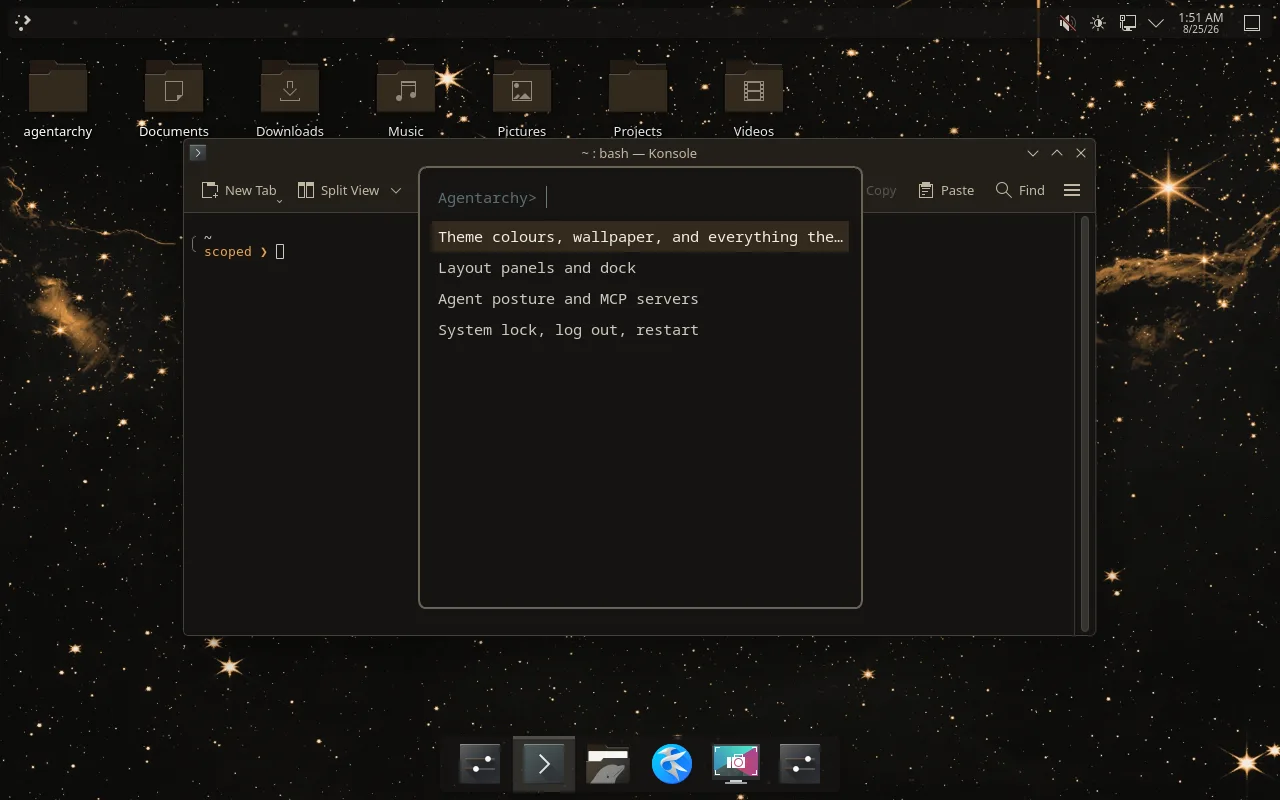
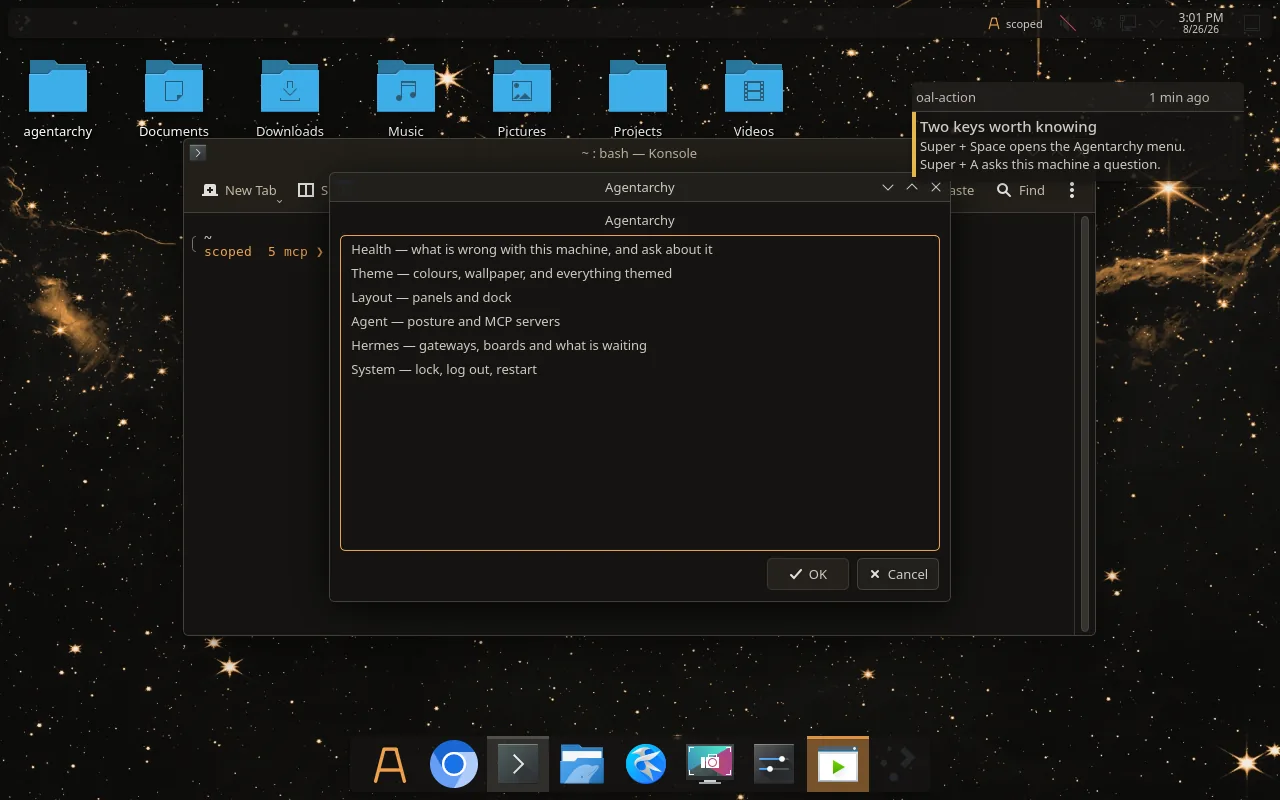
docs: photograph the menu that exists, and say which release this is
The menu screenshot was taken before the Health entry was added, so the README
showed a menu one row short of the one the package installs. Twenty-three
commits had landed against bin/ and default/ since it was taken.

Replaced from the last passing golden path, which photographs the guest as a
user sees it. The new shot happens to show three things at once: the Health
entry, the panel applet reading `A scoped`, and the first-run welcome card,
which is worth having as evidence because that card spent the whole life of the
tree pointing at a command that did not exist.

The other five are left alone deliberately. The desktop, greeter and lock screen
have not changed. The prompt shot would have got *worse*: the golden path guest
has no agent runtime configured, so its prompt is `scoped 5 mcp` where the
existing screenshot shows a machine with a model and a spend figure, which is
the shape the surrounding paragraph describes.

The README also now says which release it is and offers OAL_REF=v0.1.0 to pin
an install to it rather than to the tip of main, which moves.

A test asserts the advertised version matches the `version` file. Every count in
this README had already drifted once because nothing recomputed it, and a
version in prose drifts the same way and more embarrassingly, since it is the
first thing anyone checks against the releases page.

Claude-Session: https://claude.ai/code/session_01DXv8aKYpprnqPTderPknf6

diff --git a/README.md b/README.md
@@ -7,7 +7,9 @@ Plasma 6** instead of Hyprland.
 
 ![Agentarchy on its default theme](docs/screenshots/desktop-agentarchy.webp)
 
-> **Status: pre-alpha.** What is described below exists and is tested. Anything that does not is on
+> **Status: pre-alpha**, currently
+> [v0.1.0](https://github.com/RFingAdam/agentarchy/releases/tag/v0.1.0).
+> What is described below exists and is tested. Anything that does not is on
 > the [issue tracker](https://github.com/RFingAdam/agentarchy/issues) rather than in this paragraph,
 > because a README that describes the roadmap in the present tense is how projects waste people's
 > evenings.
@@ -37,7 +39,7 @@ Then `sudo systemctl reboot`, and you land in a themed Plasma 6 Wayland session.
 
 | | |
 |---|---|
-| `OAL_REF=main` | branch or tag to clone |
+| `OAL_REF=v0.1.0` | install a tagged release rather than the tip of `main`, which moves |
 | `OAL_SKIP_DESKTOP=1` | build and install the package, then stop before touching the system |
 | `OAL_SKIP_MISE=0` | also install the mise tools. Skipped by default; they add minutes |
 | `OAL_SKIP_AGENT=1` | skip the coding-agent runtime |
